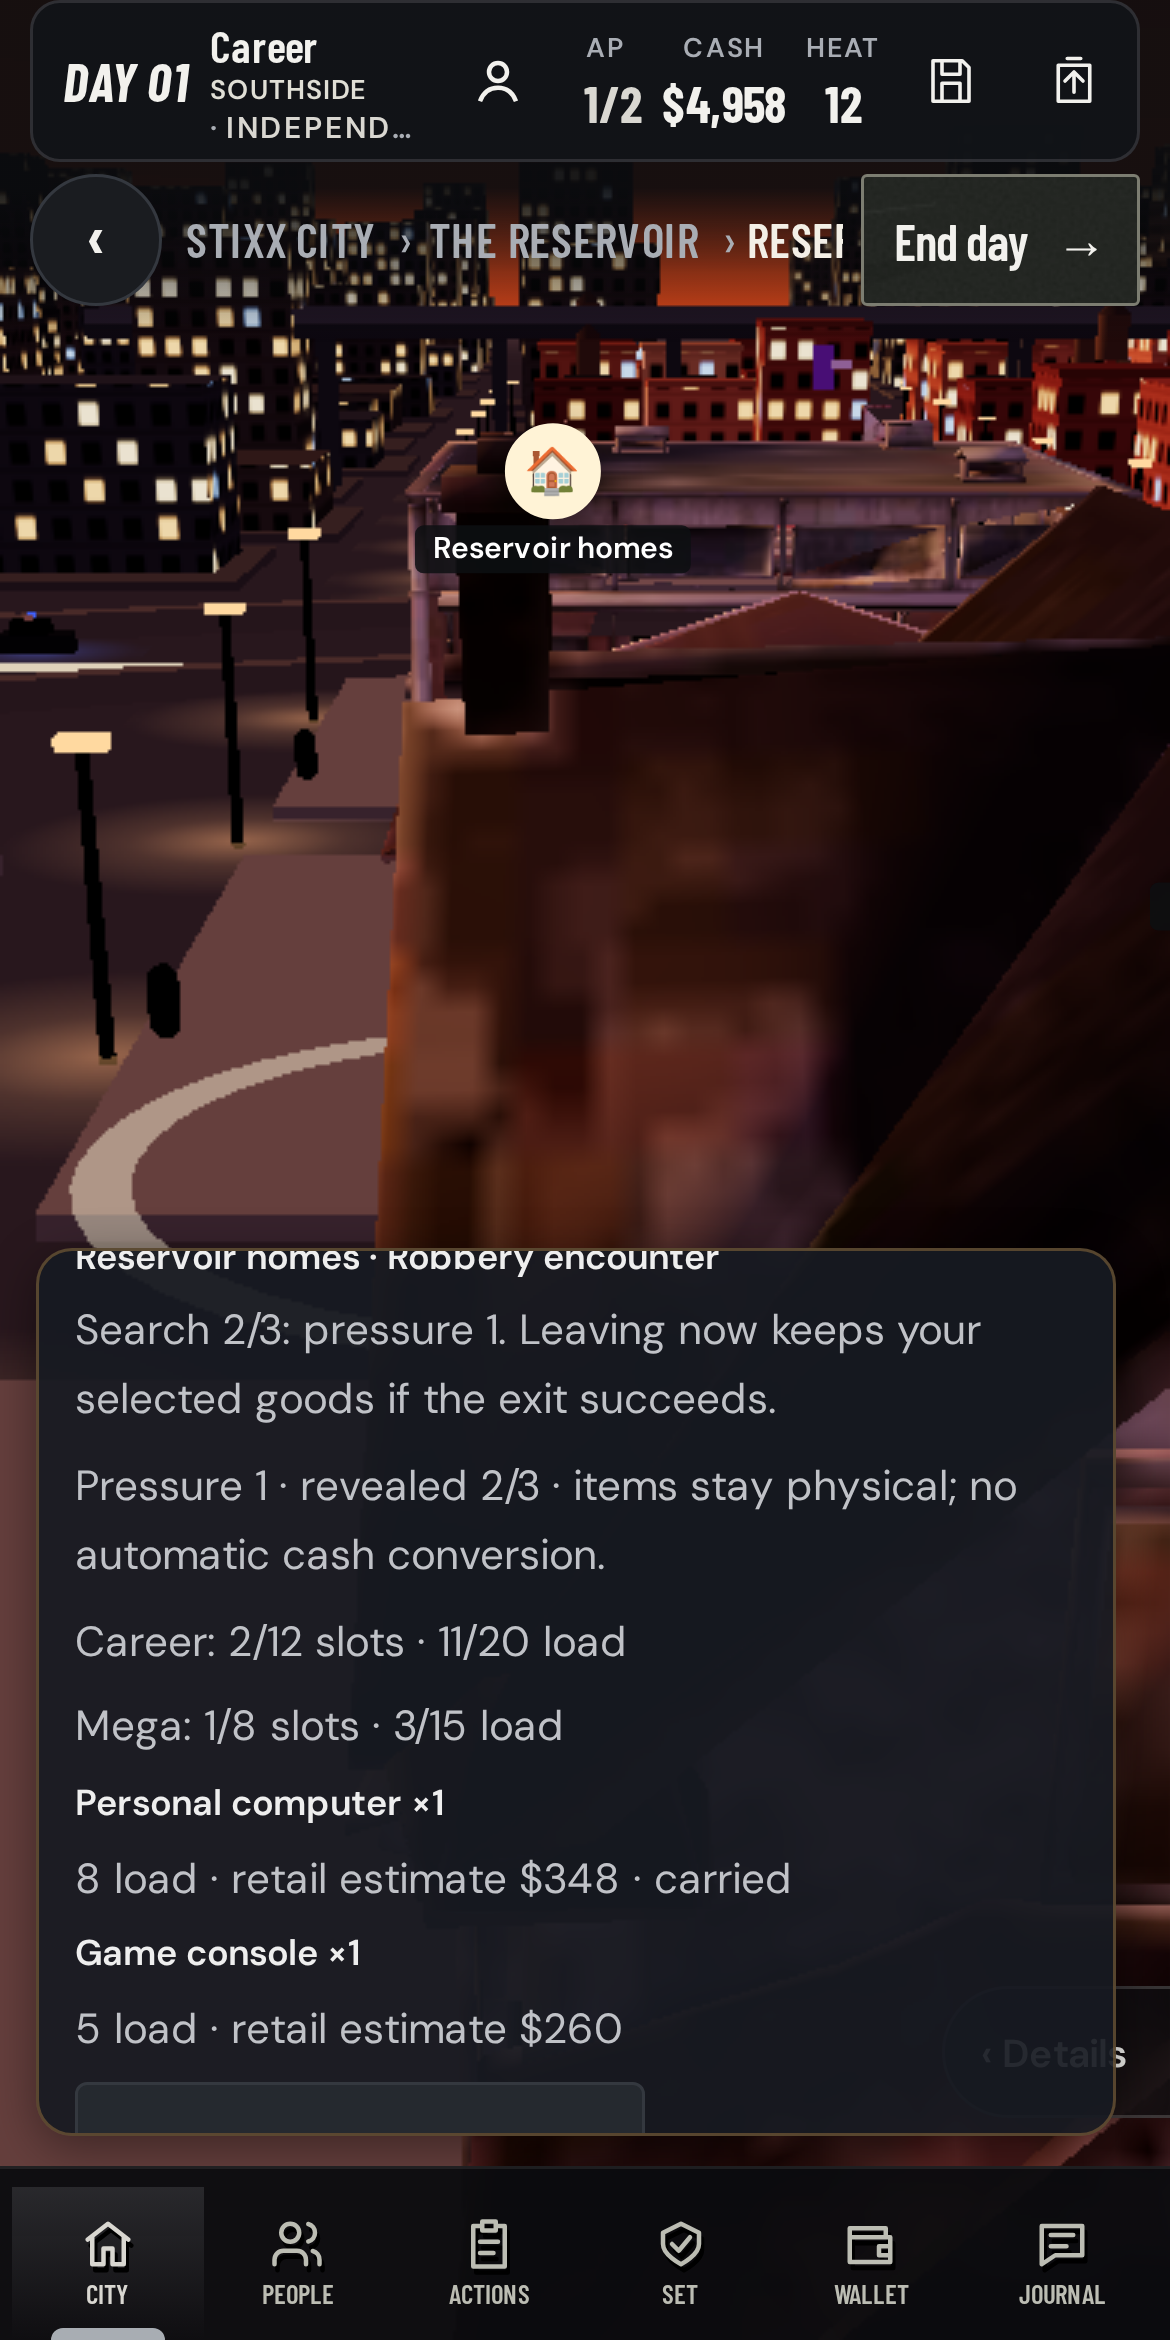
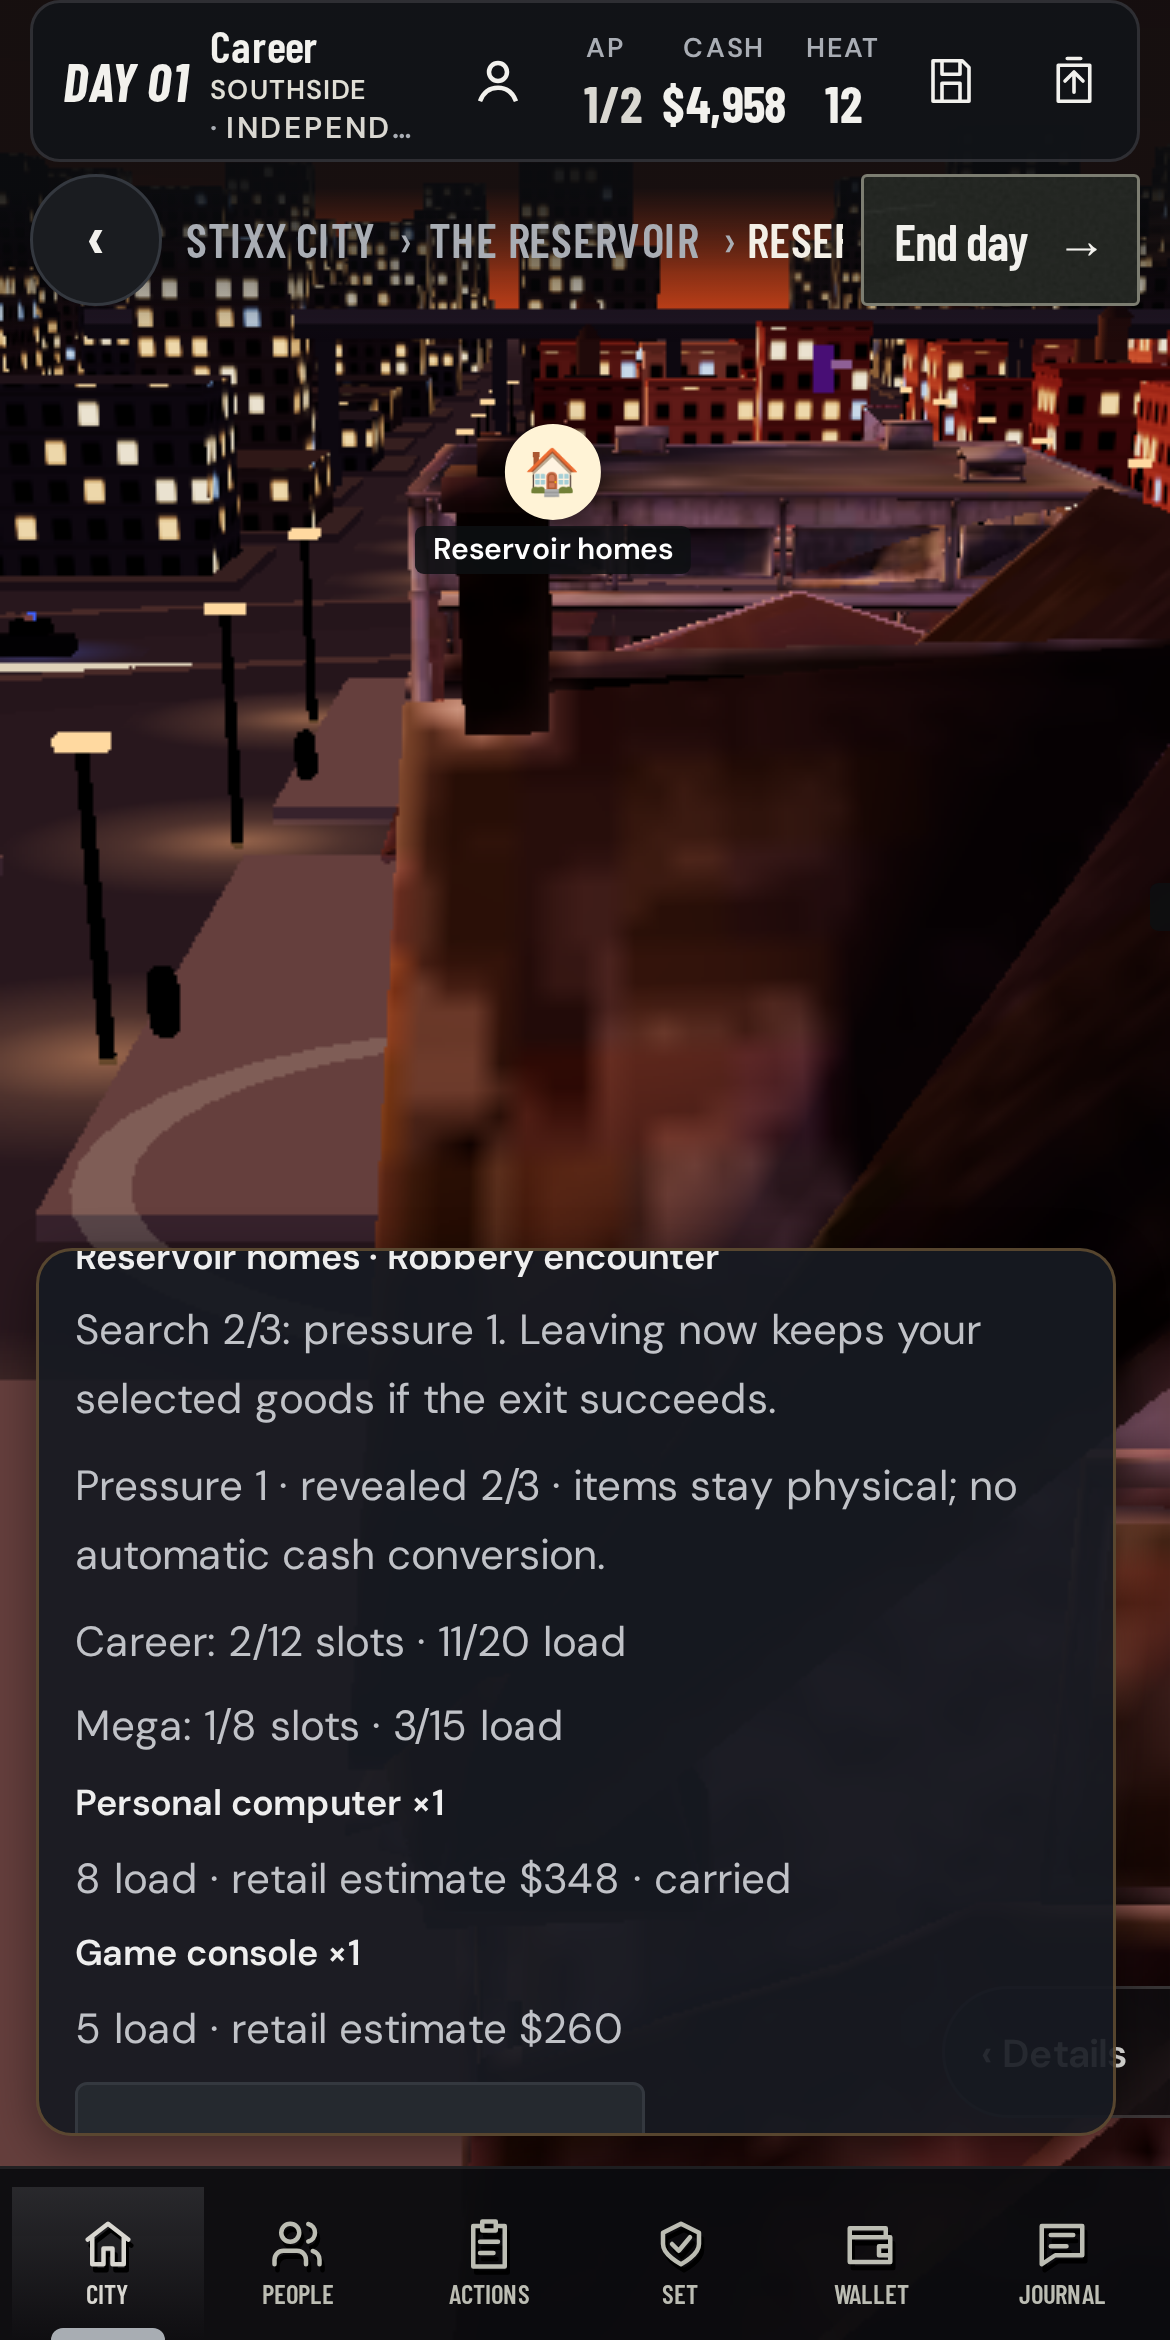
Document GOAL 013 validation, balance and confirmed main WebKit failures

diff --git a/docs/goals/GOAL_013_VALIDATION.md b/docs/goals/GOAL_013_VALIDATION.md
@@ -1,0 +1,98 @@
+# GOAL 013 validation and balance
+
+Implementation branch: `codex/goal-013-robbery-career`. PR target: Lab main. Latest integrated main: `6bf845f` (Claude's report-only audit PR #17). Production repository, deployment workflow, save keys and Lab main are untouched by this implementation. See [Claude handoff](GOAL_013_CLAUDE_HANDOFF.md) for ownership and integration dependencies.
+
+## Deterministic economy evidence
+
+`src/tests/robberyBalance.test.ts` runs actual 30/60/180-day campaigns, seed 101, starting player cash $125. It uses the real day simulation, physically visited shops, paid/AP-costed multi-unit supplies, actual robbery rolls without overriding outcomes, persistent neighborhood/target limits, actual pawn sales, partner cash cuts and goods claims, residence purchase/storage when affordable, lawful gig fallback, consignment/trapping, and patrol/arrest recovery. Each day round-trips the complete save. An established trained/equipped Set companion is a declared starting condition for this career-economy scenario; **player ranks/XP are earned**, not injected. The separate fresh onboarding tests verify the ordinary start.
+
+| Days | Attempts | Home attempts | Genuine successes | Robbery rank | Cash gross (before crew cuts) | Valuables pawned | Gloves/masks spending | Lawful gigs | Trap sessions | Ending wallet | Living-cost arrears | Supplier balances |
+|---:|---:|---:|---:|---:|---:|---:|---:|---:|---:|---:|---:|---:|
+| 30 | 13 | 1 | 10 | 3 | $944 | 3 | $300 | 6 | 0 | $180 | $0 | $102 |
+| 60 | 19 | 1 | 13 | 3 | $1,140 | 4 | $420 | 11 | 1 | $20 | $51 | $306 |
+| 180 | 56 | 4 | 33 | 3 | $2,732 | 14 | $1,200 | 53 | 3 | $176 | $322 | $714 |
+
+“Gloves/masks spending” is explicitly the bulk-supply subtotal, not every economic cost. Other supplies, gun/contact costs, partner transfers/cuts/buyouts, optional residence and living costs are actual wallet expenses in the simulation. Pawn quantities count sold physical finds, not money. Natural arrests can precede the scenario's planned mid-campaign patrol; all seizure records, debts and physical stock reconciliation are checked. No ending/killing or negative wallet occurs in these runs, but this strategy can incur arrears; legal work remains available. These are reproducible scenario measurements, not a statistical estimate of every play style or a guarantee of survival.
+
+Findings: Rank 3 is reachable (10 genuine successes by day 30 with earned invitations and XP); repeat civilian-only progression remains possible through distinct daily targets. At 180 days the mix succeeds 33/56 times and carries $1,036 of unpaid living/supplier obligations despite fallback gigs. It is a risky career, not guaranteed wealth or a replacement for careful lawful work. Existing independent long-running lawful employment, trapping and inventory capacity simulations remain in the full unit suite.
+
+## Payout interpretation and tuning
+
+All new payout/risk bands are in `src/content/robberyCareer.ts`; existing preparation prices and inventory capacity stay in their established registries.
+
+- Ordinary full cash $25–75, plus a 30% incidental-item roll (only 2% absolute chance of a plain chain). $20 gloves/mask per attempt, 1 AP plus real supply shopping, heat, failure/arrest/injury. Approximate cash-only expected net at a patient low-risk exit: .71 × $50 − $20 = **$15.50/attempt before bonus goods and all consequence costs**; shop AP lowers the per-AP return further. This is an analytic illustration, not a guaranteed win rate.
+- Home cash $60–140 plus physically selected goods. At base pawn ratio, typical first-two-room gross centers around **$270** (console/phone), **$450** (PC/console), **$560** (jewelry/PC), depending on rolls and capacity. Rare third-room locked art/jewelry appears only 12% of visits; it can exceed the ordinary $200–600 target band and is never required. Carrier capacity can force leaving loot. $42 player prep plus actual partner gloves/mask, 25% partner cash and a disclosed 25% base-pawn-value goods buyout; shared D+5 home lock prevents repeated same-zone visits.
+- Liquor full cash $125–225, optional small smokes/booze stacks, no same-location repeat that day, Rank 2 and actual equipped firearm, higher exposure than street targets.
+- Commercial cash $400–750 plus carried merchandise/jewelry, trained equipped real partner, Rank 3 coordination, Downtown pressure and 25% crew terms. Low-thousands exceptional total proceeds remain far below future bank content.
+- Pawn applies 63% once to seeded retail estimates, modestly adjusted and clamped at 55–70%. PC retail $280–440 ⇒ base pawn $176–277; console $170–260 ⇒ $107–163; jewelry $240–500 ⇒ $151–315; art $550–1,250 ⇒ $346–787. These are offers, not a second discount on nominal pawn bands. Named high-chain retail $650–950 is finite per owner, not canonical MEGA property.
+- Original-owner sell-back is 72% retail with real NPC funds and receiving capacity, +8 notoriety and guaranteed durable personal beef. It cannot be combined with pawn sale on the same physical item.
+
+Balance follow-up for Claude/owner: review the collector-house upper tail, actual iPhone pacing of preparation/partner handovers and the strain of goods-buyout obligations after later losses. Constants are intentionally editable. No bank payouts, enterprise/endgame economy or new gangs were introduced.
+
+## Test evidence
+
+Final command results are recorded below after validation completes. Interim harness issues were diagnosed rather than labelled baseline: WebKit lacked runtime libraries; test navigation needed to acknowledge real City news/close encounters; a hidden inspector needed reopening before selecting the original owner. The trapping sale-selection regression caused by the new central seizure boundary was fixed in production code and covered by the existing session/crew assertions. No test is disabled or skipped to make the suite pass.
+
+Browser runtime: official Playwright Chromium and WebKit downloaded. The executor has no sudo/package helper, so missing official Debian runtime libraries were downloaded/extracted in user-owned scratch and copied into the user-owned Playwright bundle. `PLAYWRIGHT_SKIP_VALIDATE_HOST_REQUIREMENTS=1` skips only host library probing (which cannot see these bundle libraries); the tests launch and exercise real engines. Browser tests use real touch-enabled iPhone projects and real City controls; no input guard bypass.
+
+### Final code / commands
+
+Validated implementation: `de725b6` (subsequent report/screenshots do not change gameplay code).
+
+| Check | Result |
+|---|---|
+| `npm test` | **403 passed**, 23 files; no failures/errors (101.14 s) |
+| `npx tsc -b` | Passed |
+| `npm run build` | Passed (3.65 s Vite build; standard inherited large-chunk warning) |
+| Final feature/recovery/custody browser batch | **10 passed**, 0 failed (10.0 min), Chromium + WebKit |
+
+The final browser command is:
+
+```sh
+PLAYWRIGHT_SKIP_VALIDATE_HOST_REQUIREMENTS=1 WEBKIT_SOFTWARE_SCALE=1 npm run test:e2e -- tests/robbery-career.spec.ts tests/robbery-recovery.spec.ts tests/skills-sessions.spec.ts --grep 'City home loot|City named victim|career encounter survives|a real session arrest' --workers=1
+```
+
+It checks City home loot and pawn sale at 390 and 360 px, saved optional session state, exact owner-return inventory and beef, real freeze/hidden-board/reduced-motion/reload recovery without duplicate AP/prep/XP, and actual custody/seizure/release in both touch-enabled iPhone 13 engine projects. Chromium uses the default device DPR; WebKit uses the repository's software-scale override at DPR 1, keeping the same CSS layout and touch profile.
+
+The broader regression command was:
+
+```sh
+PLAYWRIGHT_SKIP_VALIDATE_HOST_REQUIREMENTS=1 WEBKIT_SOFTWARE_SCALE=1 npm run test:e2e -- tests/robbery-career.spec.ts tests/street-life.spec.ts tests/inventory.spec.ts tests/skills-sessions.spec.ts tests/input-guard.spec.ts tests/danger.spec.ts --grep 'City home loot|City named victim|fresh promise|decline cash|earned contact|City residence|background, menu|a real session arrest|terminal conflict|a tap right' --workers=1
+```
+
+That initial 22-case batch completed **18 passed / 4 failed**. Both fresh promise and decline starts, physical work, Flacco's six, Mega's lesson, Chains, earned contact/preparation/robbery at 360 px, home/pawn/sell-back, background/unmount/reduced-motion/End Day, and terminal death/manual restore passed in both engines. Two custody failures used the old cached expectation of one transaction: correct state contains one sale AND one new confiscation loss. The current test explicitly expects both plus one seizure and no carried Pink Magic; the final batch reruns those checks. The remaining two failures are independently confirmed baseline WebKit touch failures below. The entire legacy browser library was not run; do not describe it as fully green.
+
+### Confirmed baseline failures — unchanged latest main
+
+Detached checkout: `/workspace/Hood-Hero-Lab-baseline`, commit **`6bf845fdd3e6c7ac946e35b6a7d34f97cbfd3c49`**. `git diff --exit-code 6bf845f` passed before/after reproduction; only the local dependency symlink/build output were added outside tracked source.
+
+After an independent baseline production build, the exact command was:
+
+```sh
+PLAYWRIGHT_SKIP_VALIDATE_HOST_REQUIREMENTS=1 WEBKIT_SOFTWARE_SCALE=1 PLAYWRIGHT_PORT=4174 npm run test:e2e -- tests/input-guard.spec.ts tests/inventory.spec.ts --project=webkit-mobile --workers=1
+```
+
+**2 failed / 0 passed**, with the same errors as the implementation branch:
+
+1. `[webkit-mobile] tests/input-guard.spec.ts:18` — **a tap right after a freeze ends, once the page has drawn, goes through once**. At line 52, expected AP **1**, received **2**: the single post-freeze click was dropped. Baseline duration 23.4 s (feature branch 22.9 s).
+2. `[webkit-mobile] tests/inventory.spec.ts:69` — **City residence and member cards enforce slot/load rules and real equipment bonuses**. At line 115 (`tapUntil` → `tests/helpers.ts:59`), timed out awaiting the Give action after the unretired single Law-19 slot click; selected-slot state was not applied. Baseline duration 58.5 s (feature branch 58.4 s, corresponding line 113 due to narrower district selector formatting).
+
+These tests remain enabled. Chromium passed both. This is a **Claude UI/input-guard review dependency**, consistent with the existing [main audit](../CODEBASE_AUDIT_2026-11-06.md), particularly T2/T3/T5. It is not a new stock, payout, equipment, AP or save failure, and it is not hidden by changing game rules or weakening the assertions. The new robbery recovery case uses the repository's native-touch acknowledgement helper and separately verifies no duplicate outcome after a freeze/menu/reload.
+
+### Performance / artifact size
+
+Independent builds on main and the final implementation measured:
+
+| Artifact | Main `6bf845f` | Implementation `de725b6` |
+|---|---:|---:|
+| Main JS | 720.04 kB / 227.40 kB gzip | 757.63 kB / 239.02 kB gzip |
+| BoardStage JS | 639.41 kB / 171.09 kB gzip | 639.41 kB / 171.09 kB gzip |
+| Main CSS | 101.27 kB / 20.72 kB gzip | 101.27 kB / 20.72 kB gzip |
+
+The expansion adds about **11.62 kB gzip** of rules, schemas, content and functional UI. No model assets, renderer loops, per-frame rule work or robbery timers were added. Real software-rendered Chromium/WebKit flows, stall recovery checks and 180-day persistence simulations were exercised; this is not a real-device FPS certification. Final 3D placement and iPhone presentation remain Claude's work.
+
+### Delivery state
+
+The final 10-case batch passed **5/5 Chromium and 5/5 WebKit**, including both corrected custody cases and the exact original-owner item-return assertion. Across the selected flows, all GOAL013-specific checks and both full fresh-start routes pass. The two broader WebKit tap failures above remain enabled and confirmed on main; the overall browser library is not claimed green.
+
+Curated review artifacts: [Chromium home loot](../screenshots/goal-013/chromium-home-loot.png) and [WebKit pawn sale with actual quantity](../screenshots/goal-013/webkit-pawn-sold.png). Detailed integration contract and remaining Claude presentation work: [GOAL_013_CLAUDE_HANDOFF.md](GOAL_013_CLAUDE_HANDOFF.md).
